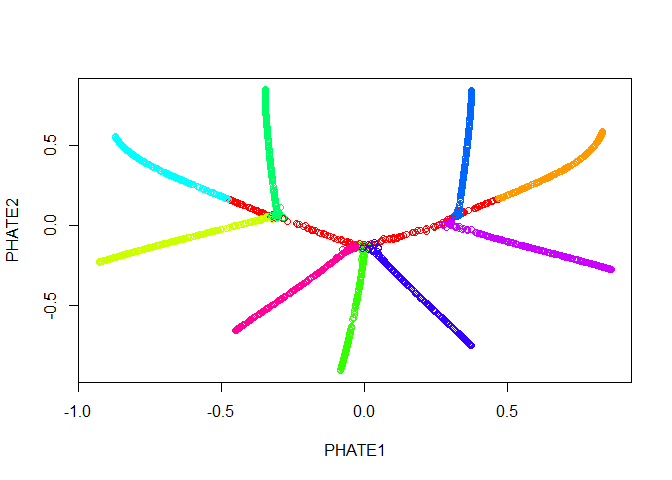
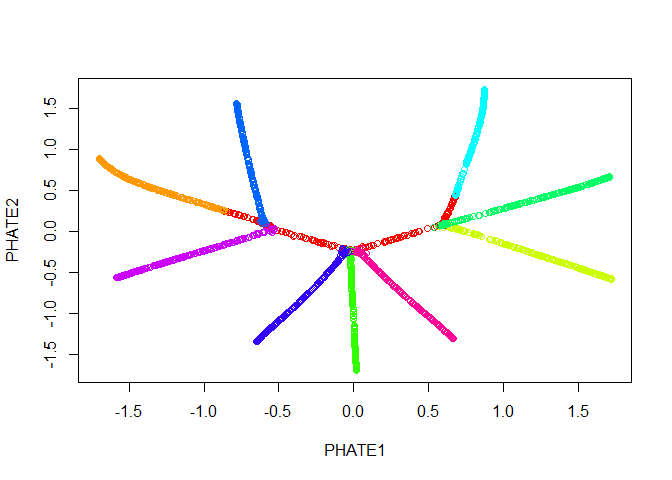
version 0.2.8

diff --git a/README.md b/README.md
@@ -1,15 +1,21 @@
-phateR v0.2.7
+phateR v0.2.8
 ================
 
 <!-- README.md is generated from README.Rmd. Please edit that file -->
 
-[![Latest PyPI version](https://img.shields.io/pypi/v/phate.svg)](https://pypi.org/project/phate/)
-[![Latest CRAN version](https://img.shields.io/cran/v/phateR.svg)](https://cran.r-project.org/package=phateR)
-[![Travis CI Build](https://api.travis-ci.com/KrishnaswamyLab/phateR.svg?branch=master)](https://travis-ci.com/KrishnaswamyLab/phateR)
-[![Read the Docs](https://img.shields.io/readthedocs/phate.svg)](https://phate.readthedocs.io/)
-[![bioRxiv Preprint](https://zenodo.org/badge/DOI/10.1101/120378.svg)](https://www.biorxiv.org/content/early/2017/12/01/120378)
+[![Latest PyPI
+version](https://img.shields.io/pypi/v/phate.svg)](https://pypi.org/project/phate/)
+[![Latest CRAN
+version](https://img.shields.io/cran/v/phateR.svg)](https://cran.r-project.org/package=phateR)
+[![Travis CI
+Build](https://api.travis-ci.com/KrishnaswamyLab/phateR.svg?branch=master)](https://travis-ci.com/KrishnaswamyLab/phateR)
+[![Read the
+Docs](https://img.shields.io/readthedocs/phate.svg)](https://phate.readthedocs.io/)
+[![bioRxiv
+Preprint](https://zenodo.org/badge/DOI/10.1101/120378.svg)](https://www.biorxiv.org/content/early/2017/12/01/120378)
 [![Twitter](https://img.shields.io/twitter/follow/KrishnaswamyLab.svg?style=social&label=Follow)](https://twitter.com/KrishnaswamyLab)
-[![Github Stars](https://img.shields.io/github/stars/KrishnaswamyLab/PHATE.svg?style=social&label=Stars)](https://github.com/KrishnaswamyLab/PHATE/)
+[![Github
+Stars](https://img.shields.io/github/stars/KrishnaswamyLab/PHATE.svg?style=social&label=Stars)](https://github.com/KrishnaswamyLab/PHATE/)
 
 This R package provides an implementation of the [PHATE dimensionality
 reduction and visualization
@@ -24,16 +30,23 @@ For our Python and Matlab implementations, please see
 
 ## Table of Contents
 
-  * [Installation](#installation)
-    * [Installation from CRAN and PyPi](#installation-from-cran-and-pypi)
-    * [Installation with devtools and <code>reticulate</code>](#installation-with-devtools-and-reticulate)
-    * [Installation from source](#installation-from-source)
-  * [Tutorial](#tutorial)
-  * [Issues](#issues)
+  - [Installation](#installation)
+      - [Installation from CRAN and
+        PyPi](#installation-from-cran-and-pypi)
+      - [Installation with devtools and
+        <code>reticulate</code>](#installation-with-devtools-and-reticulate)
+      - [Installation from source](#installation-from-source)
+  - [Tutorial](#tutorial)
+  - [Issues](#issues)
 
 ## Installation
 
 In order to use PHATE in R, you must also install the Python package.
+
+If `python` or `pip` are not installed, you will need to install them.
+We recommend [Miniconda3](https://conda.io/miniconda.html) to install
+Python and `pip` together, or otherwise you can install `pip` from
+<https://pip.pypa.io/en/stable/installing/>.
 
 #### Installation from CRAN and PyPi
 
@@ -64,7 +77,7 @@ install `phate` in Python by running the following code in R:
 
 ``` r
 devtools::install_github("rstudio/reticulate")
-reticulate::py_install("phate")
+reticulate::py_install("phate", pip=TRUE)
 ```
 
 #### Installation from source
@@ -73,7 +86,7 @@ The latest source version of PHATE can be accessed by running the
 following in a terminal:
 
 ``` bash
-git clone --recursive git://github.com/SmitaKrishnaswamy/PHATE.git
+git clone --recursive git://github.com/KrishnaswamyLab/PHATE.git
 cd PHATE/phateR
 R CMD INSTALL
 cd ../Python
@@ -81,8 +94,8 @@ python setup.py install --user
 ```
 
 If the `phateR` folder is empty, you have may forgotten to use the
-`--recursive` option for `git clone`. You can rectify this by
-running the following in a terminal:
+`--recursive` option for `git clone`. You can rectify this by running
+the following in a terminal:
 
 ``` bash
 cd PHATE
@@ -102,6 +115,7 @@ PCA.
 
 ``` r
 library(phateR)
+#> Loading required package: Matrix
 data(tree.data)
 plot(prcomp(tree.data$data)$x, col=tree.data$branches)
 ```
@@ -116,7 +130,7 @@ default parameters.
 tree.phate <- phate(tree.data$data)
 summary(tree.phate)
 #> PHATE embedding
-#> k = 15, alpha = NA, t = auto
+#> k = 5, alpha = 15, t = auto
 #> Data: (3000, 100)
 #> Embedding: (3000, 2)
 ```
@@ -133,17 +147,17 @@ plot(tree.phate, col = tree.data$branches)
 
 Good news\! Our branches separate nicely. However, most of the
 interesting activity seems to be concentrated into one region of the
-plot - in this case we should try the square root potential instead. We
-can also try increasing `t` to make the structure a little clearer - in
-this case, because synthetic data in unusually structured, we can use a
-very large value, like 200, but in biological data the automatic `t`
-selection is generally very close to ideal. Note here that if we pass
-our previous result in with the argument `init`, we won’t have to
-recompute the diffusion operator.
+plot - in this case we should try the square root potential instead by
+using `gamma=0`. We can also try increasing `t` to make the structure a
+little clearer - in this case, because synthetic data in unusually
+structured, we can use a very large value, like 120, but in biological
+data the automatic `t` selection is generally very close to ideal. Note
+here that if we pass our previous result in with the argument `init`, we
+won’t have to recompute the diffusion operator.
 
 ``` r
 # runs phate with different parameters
-tree.phate <- phate(tree.data$data, potential.method='sqrt', t=200, init=tree.phate)
+tree.phate <- phate(tree.data$data, gamma=0, t=120, init=tree.phate)
 # plot embedding
 palette(rainbow(10))
 plot(tree.phate, col = tree.data$branches)
@@ -156,7 +170,6 @@ installed.
 
 ``` r
 library(ggplot2)
-#> Warning: package 'ggplot2' was built under R version 3.4.4
 ggplot(tree.phate, aes(x=PHATE1, y=PHATE2, color=tree.data$branches)) +
   geom_point()
 ```
